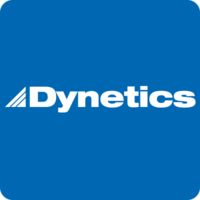
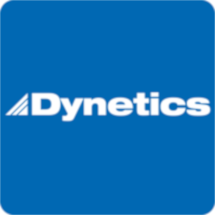
Rounded images
- Rounded company images
- Made images the same size

Changed region(s): [[0.0, 0.0, 1.0, 0.99], [0.03, 0.96, 0.99, 1.0]]

diff --git a/css/styles.min.css b/css/styles.min.css
@@ -1,1 +1,1 @@
-#backToTopBtn,.modal,.sticky{position:fixed}body{font-family:"Trebuchet MS",Helvetica,sans-serif;color:#FFF}.extra-margin-row{margin:.5vh 0 5vh}#backToTopBtn{display:none;bottom:20px;right:30px;z-index:99;font-size:18px;border:none;outline:0;background-color:#B40001;color:#FFF;cursor:pointer;padding:15px;border-radius:4px}#backToTopBtn:hover{background-color:#555}:focus{outline:0}video{width:100%!important;height:auto!important;margin:0 auto 15px;object-fit:contain;max-height:300px;max-width:400px}.custom-nav{display:flex;justify-content:center;align-items:center;overflow:hidden;background-color:#B30000;width:100%;height:60px;z-index:999}.custom-nav a{float:left;display:block;color:#f2f2f2;text-align:center;padding:8px 14px;text-decoration:none;font-size:15px}.custom-nav a:hover{background-color:#ddd;color:#191919;border-radius:50px}.active{background-color:#191919;color:#FFF;border-radius:50px}.cursor,.secret-header h3{color:#0F0}.custom-nav .icon{display:none}.secret-header h1{text-transform:none;color:#0F0;text-align:center}.cursor{animation:blink 1s infinite;cursor:pointer}@keyframes blink{to{opacity:0}}.sticky{top:0;width:100%;z-index:9999}#home{display:flex;flex-direction:row;align-items:center;justify-content:center;padding:1% 10px 17px;background:#B30000}#home .logo-container{display:flex;flex-direction:row;align-items:center}#home .header-text{margin-left:5%;height:auto;width:auto}#home h1,#home h2{text-align:left;width:40vw;color:#FFF;text-transform:none}#home h1{font-size:2.2vw}#home h2{font-size:1.8vw}#home h3{color:#FFF}.email-join-pay{display:flex;justify-content:center;align-items:center;flex-direction:column;margin-left:5%;max-width:310px;width:100%}.email-field,.fancy-button{margin-left:auto;margin-right:auto;font-size:18px;line-height:50px;text-overflow:ellipsis;font-weight:700;display:flex;white-space:nowrap;overflow:hidden;-webkit-font-smoothing:antialiased;-moz-osx-font-smoothing:grayscale;text-decoration:none}.email-field,.email-text{height:40px;width:310px;text-align:center}.email-field{background-color:#fff;cursor:text;justify-content:center;align-items:center;border-radius:50px}::placeholder{color:#BDBDBD;opacity:1}:-ms-input-placeholder{color:#BDBDBD}::-ms-input-placeholder{color:#BDBDBD}.email-text{border:none;border-radius:50px}.email-divider{height:10px}#home .header-buttons{display:flex;flex-direction:row;max-width:310px;width:100%}.fancy-button{background-color:#B30000;cursor:pointer;color:#FFF;text-align:center;justify-content:center;align-items:center;border-radius:50px;width:150px;height:40px}#payModal .braintree-placeholder,#sexyHeader,.modal{display:none}.join-btn,.pay-btn{border:none;background:#191919}.modal-dark-header,pre{border:0}.fancy-button:hover{background-color:#ddd;color:#191919}.pay-btn:hover{background-color:#058B00;color:#FFF}.fancy-button-red{background-color:#B30000;color:#FFF}.hamburger-margin{margin:5px}#sexyHeader{align-items:center}pre{line-height:normal;font-weight:400;font-style:normal;text-align:start;font-variant:normal;color:#0F0;font-size:8px}.close,.error,.label-alert-show,.secret-header strong{font-weight:700}.modal{z-index:1;padding:50px 10px;left:0;top:0;width:100%;height:100%;overflow:auto;background-color:#000;background-color:rgba(0,0,0,.4);-webkit-overflow-scrolling:touch}.modal-content{background-color:#222;color:#FFF;margin:auto;padding:20px;border:1px solid #888;max-width:600px}.high-contrast-close{float:right;font-size:1.5rem;font-weight:700;line-height:1;text-shadow:0 1px 0 #EEE;opacity:1;color:#EEE}.close{float:right;font-size:28px}.close:focus,.close:hover{color:#999;text-decoration:none;cursor:pointer}a,footer a,h4,h6{text-decoration:underline}.form-container{padding:.5rem 1.5rem 1.5rem;margin-right:0;margin-left:0;border-width:.2rem}.error{color:red}#pay-form,#payment-wrapper .braintree-heading{color:#FFF}#payModal .braintree-sheet{border-radius:0 0 4px 4px}#payForm input,#payModal .braintree-form__field{border-radius:4px}#payModal ::placeholder{color:#555}#payModal #header{background:#B30000;max-width:1000px;margin:25px auto 0;overflow:auto;border-radius:4px 4px 0 0}#payModal img{width:75px;height:75px;margin:0;text-align:left;float:left;border-radius:4px 0 0}#payModal h1{font-family:"-apple-system",BlinkMacSystemFont,"Segoe UI",Roboto,Oxygen,Ubuntu,Cantarell,"Fira Sans","Droid Sans","Helvetica Neue",sans-serif;font-size:36px;margin:0 0 0 10px;float:left;color:#FFF;line-height:75px}#pay-form{max-width:1000px;margin:0 auto;padding:24px 24px 5px;box-sizing:border-box;border-bottom:0;text-align:left}.label-alert-show{color:red;display:block;text-transform:none;font-size:14px;text-align:left}#payForm input,#payModal #drop-down{height:42px;font-size:16px;box-sizing:border-box;width:100%}.label-alert-hide{display:none}.alert{border-color:red!important;border-width:2px;padding:.375rem .75rem}#payForm input{display:block;color:#000;padding-left:7px;outline:0}#payModal #drop-down{background:#FFF}#payModal #payment-wrapper{max-width:1000px;margin:0 auto;padding-bottom:0}.cancel-submit,.crimson-submit{padding:10px;outline:0;font-size:16px;-webkit-appearance:none;color:#FFF}.crimson-submit{background:#B30000;border:0;border-radius:5px;margin:0 0 5px}.cancel-submit{cursor:pointer;background:#777;border:0;border-radius:5px;margin:0 5px 5px;float:left}.crimson-submit:hover{background:#058B00;cursor:pointer}.fullscreen,.parallax{background-repeat:no-repeat}#payModal #success-form{max-width:1000px;margin:0 auto;padding:15;text-align:left}#events-list,.dark-section .question-box,.dark-section h2,.dark-university,.events-list-item>a,footer p,h1,h3,h4{text-align:center}.braintree-dropin{min-width:100px}#dropin-container{width:100%}.shift-up{margin-top:-30px}h4{padding:3px}a{color:#FFF}a:hover{color:#b7b7b7;text-decoration:none}.divider{border-bottom:2px solid #FFF;width:100px;margin:10px auto 20px}p{font-size:1.1em;line-height:1.8em}.responsive-iframe-container{position:relative;padding-bottom:56.25%;padding-top:30px;margin-left:10px;margin-right:10px;height:0;overflow:hidden}.lhd-logo,.logo{height:auto;width:100%}.logo{max-width:250px;margin-top:5px}.lhd-logo{max-width:400px}.responsive-iframe-container iframe,.vresponsive-iframe-container embed,.vresponsive-iframe-container object{position:absolute;top:0;left:0;width:100%;height:100%}.typeform-share{width:100%}.fancy-watch-video{min-width:270px}#membersImg{max-width:500px;width:100%;height:auto}#receipt{margin-bottom:5px}#email-btn{height:30px;line-height:30px}.fullscreen{background-position:top right;min-height:calc(100vh - 2.5em)}.parallax{padding:30px 0;background-size:cover;background-attachment:fixed;background-position:center center}.roomy{min-height:50%;padding:20px 10px}#secret-mode{color:#0F0}.secret-header{background-color:#000}.secret-header .icons{margin:10vh 0 5vh}.dark-section{background:#222}.more-dark{background:#111}.darkest{background:#000}.dark-section h1,h2,h3,h4{color:#FFF}.dark-section h2{display:block;background:#B30000;margin:0;padding:15px 10px;color:#FFF;font-size:1.3em}.dark-section p{color:#FFF}.dark-section .col-md-4{margin:0;padding:0}.dark-section .left,.dark-section .middle,.dark-section .right{padding-right:20px}.dark-section .question-box{background-color:#111;width:100%;padding:0 0 5px;margin:0 0 20px;border-radius:25px}.dark-section .question-box h2{border-top-left-radius:25px;border-top-right-radius:25px}.dark-section .question-box p{padding:10px;color:#FFF;line-height:1.5em;text-align:center}.question-box a,.question-box h4{color:#FFF;padding:0 5px}.dark-section .question-box img{margin-bottom:10px}.dark-section .events-list-item{background-color:#222}.dark-university{background-image:url(../images/img_about_background_dark.jpg)}#companies{display:flex;flex-direction:column;align-items:center}#companies-container{height:250px;width:100%;display:flex;justify-content:center}#left-paddle,#right-paddle{align-self:center;height:50%;display:none;cursor:pointer}#mobile-scroll-notice{display:block}@media (min-width:728px){#left-paddle,#right-paddle{display:block}#mobile-scroll-notice{display:none}}#left-paddle>img,#right-paddle>img{height:80%}#companies-logos{height:100%;width:90%;display:flex;overflow-x:auto;-webkit-overflow-scrolling:touch}.video-responsive,.video-responsive video{height:auto;width:100%;max-width:500px;max-height:281px}#companies-logos::-webkit-scrollbar{display:none}.company-logo{margin-left:10px;margin-right:10px}#events-list,.video-responsive{margin-left:auto;margin-right:auto}.video-responsive{overflow:hidden;padding-bottom:300px;position:relative}.video-responsive video{left:0;top:0;position:absolute}footer{background:#222;padding:50px 0}footer p{color:#FFF;margin-bottom:0;font-size:16px}footer a{color:#FFF}footer a:hover{color:#B30000}footer .social{font-size:2em}.disclaimer{max-width:400px;font-size:12px;font-style:italic;line-height:12px}.js{display:none}#upcoming-events-heading{font-size:1.75em;margin:10px;background:0 0}#events-list{max-width:940px;list-style-type:none;padding-left:0}.events-list-item>a{display:block;text-decoration:none;padding:10px;background-color:#B30000;font-size:1.25em}.events-list-item.question-box{border-radius:25px}.events-list-item.question-box a{border-top-left-radius:25px}.event-details-paragraph{font-size:1.25em;padding:15px;text-align:left}@media screen and (max-width:700px){.custom-nav{flex-direction:row;align-items:center;padding:5px 1px;height:auto}.custom-nav a{display:flex;padding:8px}.custom-nav a.icon{float:right;display:none}.custom-nav.responsive{position:relative;align-items:center}.custom-nav.responsive .icon{display:none;position:absolute;top:0;right:0}.custom-nav.responsive a{display:flex;text-align:left}#home{display:flex;flex-direction:column;align-items:center;justify-content:center;padding-left:0;padding-right:0}#home .logo-container{display:flex;flex-direction:column;align-items:center}#home .header-text{display:flex;flex-direction:column;padding-top:15px;padding-bottom:15px;margin-left:0}#home .header-text h1{font-size:28px;text-align:center;max-width:300px;width:100%}#home .header-buttons{display:flex;flex-direction:row;max-width:310px;width:100%}.email-join-pay{margin-left:0}pre{font-size:5px}.button-wrapper{margin:5px auto}.parallax{background-attachment:scroll}}@media only screen and (min-width:267px){#home .header-text{width:auto}h1{font-size:10vw}.hero{height:100vh;min-height:100vh}.dark-section .left,.dark-section .middle,.dark-section .right{padding-right:0}.hidden-phone{display:none}.visible-phone{display:block}.mobile-calendar{padding-bottom:80%}.video-responsive video{margin-top:50px}}@media only screen and (min-width:500px){#home .header-text{width:auto}.hero{height:auto}h1{font-size:36px}.dark-section .left,.dark-section .middle,.dark-section .right{padding-right:20px}.visible-phone{display:none}.hidden-phone{display:block}.button-divider{display:inline}.video-responsive video{margin-top:15px}}@media only screen and (min-width:992px){#home .header-text{width:auto}.dark-section .left,.dark-section .middle,.dark-section .right{padding-right:20px}.visible-phone{display:none}.hidden-phone{display:block}}@media (max-width:1050px){#home,#home .logo-container{flex-direction:column;display:flex}#home{align-items:center;justify-content:center;background:#B30000}#home .logo-container{align-items:center;width:100%}#home .header-text{display:flex;flex-direction:column;align-items:center;margin-left:0;height:auto;width:100%;padding-top:10px;padding-bottom:10px}#home .header-text h1{text-align:center;font-size:28px;width:100%}#home .header-text h2{font-size:24px;text-align:center;width:100%}.email-join-pay{display:flex;justify-content:center;align-items:center;flex-direction:column;margin-left:0}}@media (min-width:1200px){.container{max-width:970px}.dark-section .left,.dark-section .middle,.dark-section .right{padding-right:20px}.visible-phone{display:none}.hidden-phone{display:block}}
+#backToTopBtn,.modal,.sticky{position:fixed}body{font-family:"Trebuchet MS",Helvetica,sans-serif;color:#FFF}.extra-margin-row{margin:.5vh 0 5vh}#backToTopBtn{display:none;bottom:20px;right:30px;z-index:99;font-size:18px;border:none;outline:0;background-color:#B40001;color:#FFF;cursor:pointer;padding:15px;border-radius:4px}#backToTopBtn:hover{background-color:#555}:focus{outline:0}video{width:100%!important;height:auto!important;margin:0 auto 15px;object-fit:contain;max-height:300px;max-width:400px}.custom-nav{display:flex;justify-content:center;align-items:center;overflow:hidden;background-color:#B30000;width:100%;height:60px;z-index:999}.custom-nav a{float:left;display:block;color:#f2f2f2;text-align:center;padding:8px 14px;text-decoration:none;font-size:15px}.custom-nav a:hover{background-color:#ddd;color:#191919;border-radius:50px}.active{background-color:#191919;color:#FFF;border-radius:50px}.cursor,.secret-header h3{color:#0F0}.custom-nav .icon{display:none}.secret-header h1{text-transform:none;color:#0F0;text-align:center}.cursor{animation:blink 1s infinite;cursor:pointer}@keyframes blink{to{opacity:0}}.sticky{top:0;width:100%;z-index:9999}#home{display:flex;flex-direction:row;align-items:center;justify-content:center;padding:1% 10px 17px;background:#B30000}#home .logo-container{display:flex;flex-direction:row;align-items:center}#home .header-text{margin-left:5%;height:auto;width:auto}#home h1,#home h2{text-align:left;width:40vw;color:#FFF;text-transform:none}#home h1{font-size:2.2vw}#home h2{font-size:1.8vw}#home h3{color:#FFF}.email-join-pay{display:flex;justify-content:center;align-items:center;flex-direction:column;margin-left:5%;max-width:310px;width:100%}.email-field,.fancy-button{margin-left:auto;margin-right:auto;font-size:18px;line-height:50px;text-overflow:ellipsis;font-weight:700;display:flex;white-space:nowrap;overflow:hidden;-webkit-font-smoothing:antialiased;-moz-osx-font-smoothing:grayscale;text-decoration:none}.email-field,.email-text{height:40px;width:310px;text-align:center}.email-field{background-color:#fff;cursor:text;justify-content:center;align-items:center;border-radius:50px}::placeholder{color:#BDBDBD;opacity:1}:-ms-input-placeholder{color:#BDBDBD}::-ms-input-placeholder{color:#BDBDBD}.email-text{border:none;border-radius:50px}.email-divider{height:10px}#home .header-buttons{display:flex;flex-direction:row;max-width:310px;width:100%}.fancy-button{background-color:#B30000;cursor:pointer;color:#FFF;text-align:center;justify-content:center;align-items:center;border-radius:50px;width:150px;height:40px}#payModal .braintree-placeholder,#sexyHeader,.modal{display:none}.join-btn,.pay-btn{border:none;background:#191919}.modal-dark-header,pre{border:0}.fancy-button:hover{background-color:#ddd;color:#191919}.pay-btn:hover{background-color:#058B00;color:#FFF}.fancy-button-red{background-color:#B30000;color:#FFF}.hamburger-margin{margin:5px}#sexyHeader{align-items:center}pre{line-height:normal;font-weight:400;font-style:normal;text-align:start;font-variant:normal;color:#0F0;font-size:8px}.close,.error,.label-alert-show,.secret-header strong{font-weight:700}.modal{z-index:1;padding:50px 10px;left:0;top:0;width:100%;height:100%;overflow:auto;background-color:#000;background-color:rgba(0,0,0,.4);-webkit-overflow-scrolling:touch}.modal-content{background-color:#222;color:#FFF;margin:auto;padding:20px;border:1px solid #888;max-width:600px}.high-contrast-close{float:right;font-size:1.5rem;font-weight:700;line-height:1;text-shadow:0 1px 0 #EEE;opacity:1;color:#EEE}.close{float:right;font-size:28px}.close:focus,.close:hover{color:#999;text-decoration:none;cursor:pointer}a,footer a,h4,h6{text-decoration:underline}.form-container{padding:.5rem 1.5rem 1.5rem;margin-right:0;margin-left:0;border-width:.2rem}.error{color:red}#pay-form,#payment-wrapper .braintree-heading{color:#FFF}#payModal .braintree-sheet{border-radius:0 0 4px 4px}#payForm input,#payModal .braintree-form__field{border-radius:4px}#payModal ::placeholder{color:#555}#payModal #header{background:#B30000;max-width:1000px;margin:25px auto 0;overflow:auto;border-radius:4px 4px 0 0}#payModal img{width:75px;height:75px;margin:0;text-align:left;float:left;border-radius:4px 0 0}#payModal h1{font-family:"-apple-system",BlinkMacSystemFont,"Segoe UI",Roboto,Oxygen,Ubuntu,Cantarell,"Fira Sans","Droid Sans","Helvetica Neue",sans-serif;font-size:36px;margin:0 0 0 10px;float:left;color:#FFF;line-height:75px}#pay-form{max-width:1000px;margin:0 auto;padding:24px 24px 5px;box-sizing:border-box;border-bottom:0;text-align:left}.label-alert-show{color:red;display:block;text-transform:none;font-size:14px;text-align:left}#payForm input,#payModal #drop-down{height:42px;font-size:16px;box-sizing:border-box;width:100%}.label-alert-hide{display:none}.alert{border-color:red!important;border-width:2px;padding:.375rem .75rem}#payForm input{display:block;color:#000;padding-left:7px;outline:0}#payModal #drop-down{background:#FFF}#payModal #payment-wrapper{max-width:1000px;margin:0 auto;padding-bottom:0}.cancel-submit,.crimson-submit{padding:10px;outline:0;font-size:16px;-webkit-appearance:none;color:#FFF}.crimson-submit{background:#B30000;border:0;border-radius:5px;margin:0 0 5px}.cancel-submit{cursor:pointer;background:#777;border:0;border-radius:5px;margin:0 5px 5px;float:left}.crimson-submit:hover{background:#058B00;cursor:pointer}.fullscreen,.parallax{background-repeat:no-repeat}#payModal #success-form{max-width:1000px;margin:0 auto;padding:15;text-align:left}#events-list,.dark-section .question-box,.dark-section h2,.dark-university,.events-list-item>a,footer p,h1,h3,h4{text-align:center}.braintree-dropin{min-width:100px}#dropin-container{width:100%}.shift-up{margin-top:-30px}h4{padding:3px}a{color:#FFF}a:hover{color:#b7b7b7;text-decoration:none}.divider{border-bottom:2px solid #FFF;width:100px;margin:10px auto 20px}p{font-size:1.1em;line-height:1.8em}.responsive-iframe-container{position:relative;padding-bottom:56.25%;padding-top:30px;margin-left:10px;margin-right:10px;height:0;overflow:hidden}.lhd-logo,.logo{height:auto;width:100%}.logo{max-width:250px;margin-top:5px}.lhd-logo{max-width:400px}.responsive-iframe-container iframe,.vresponsive-iframe-container embed,.vresponsive-iframe-container object{position:absolute;top:0;left:0;width:100%;height:100%}.typeform-share{width:100%}.fancy-watch-video{min-width:270px}#membersImg{max-width:500px;width:100%;height:auto}#receipt{margin-bottom:5px}#email-btn{height:30px;line-height:30px}.fullscreen{background-position:top right;min-height:calc(100vh - 2.5em)}.parallax{padding:30px 0;background-size:cover;background-attachment:fixed;background-position:center center}.roomy{min-height:50%;padding:20px 10px}#secret-mode{color:#0F0}.secret-header{background-color:#000}.secret-header .icons{margin:10vh 0 5vh}.dark-section{background:#222}.more-dark{background:#111}.darkest{background:#000}.dark-section h1,h2,h3,h4{color:#FFF}.dark-section h2{display:block;background:#B30000;margin:0;padding:15px 10px;color:#FFF;font-size:1.3em}.dark-section p{color:#FFF}.dark-section .col-md-4{margin:0;padding:0}.dark-section .left,.dark-section .middle,.dark-section .right{padding-right:20px}.dark-section .question-box{background-color:#111;width:100%;padding:0 0 5px;margin:0 0 20px;border-radius:25px}.dark-section .question-box h2{border-top-left-radius:25px;border-top-right-radius:25px}.dark-section .question-box p{padding:10px;color:#FFF;line-height:1.5em;text-align:center}.question-box a,.question-box h4{color:#FFF;padding:0 5px}.dark-section .question-box img{margin-bottom:10px}.dark-section .events-list-item{background-color:#222}.dark-university{background-image:url(../images/img_about_background_dark.jpg)}#companies{display:flex;flex-direction:column;align-items:center}#companies-container{height:250px;width:100%;display:flex;justify-content:center}#left-paddle,#right-paddle{align-self:center;height:50%;display:none;cursor:pointer}#mobile-scroll-notice{display:block}@media (min-width:728px){#left-paddle,#right-paddle{display:block}#mobile-scroll-notice{display:none}}#left-paddle>img,#right-paddle>img{height:80%}#companies-logos{height:100%;width:90%;display:flex;overflow-x:auto;-webkit-overflow-scrolling:touch}.video-responsive,.video-responsive video{height:auto;width:100%;max-width:500px;max-height:281px}#companies-logos::-webkit-scrollbar{display:none}.company-logo{margin-left:10px;margin-right:10px}#events-list,.video-responsive{margin-left:auto;margin-right:auto}.company-logo img{border-radius:50%}.video-responsive{overflow:hidden;padding-bottom:300px;position:relative}.video-responsive video{left:0;top:0;position:absolute}footer{background:#222;padding:50px 0}footer p{color:#FFF;margin-bottom:0;font-size:16px}footer a{color:#FFF}footer a:hover{color:#B30000}footer .social{font-size:2em}.disclaimer{max-width:400px;font-size:12px;font-style:italic;line-height:12px}.js{display:none}#upcoming-events-heading{font-size:1.75em;margin:10px;background:0 0}#events-list{max-width:940px;list-style-type:none;padding-left:0}.events-list-item>a{display:block;text-decoration:none;padding:10px;background-color:#B30000;font-size:1.25em}.events-list-item.question-box{border-radius:25px}.events-list-item.question-box a{border-top-left-radius:25px}.event-details-paragraph{font-size:1.25em;padding:15px;text-align:left}@media screen and (max-width:700px){.custom-nav{flex-direction:row;align-items:center;padding:5px 1px;height:auto}.custom-nav a{display:flex;padding:8px}.custom-nav a.icon{float:right;display:none}.custom-nav.responsive{position:relative;align-items:center}.custom-nav.responsive .icon{display:none;position:absolute;top:0;right:0}.custom-nav.responsive a{display:flex;text-align:left}#home{display:flex;flex-direction:column;align-items:center;justify-content:center;padding-left:0;padding-right:0}#home .logo-container{display:flex;flex-direction:column;align-items:center}#home .header-text{display:flex;flex-direction:column;padding-top:15px;padding-bottom:15px;margin-left:0}#home .header-text h1{font-size:28px;text-align:center;max-width:300px;width:100%}#home .header-buttons{display:flex;flex-direction:row;max-width:310px;width:100%}.email-join-pay{margin-left:0}pre{font-size:5px}.button-wrapper{margin:5px auto}.parallax{background-attachment:scroll}}@media only screen and (min-width:267px){#home .header-text{width:auto}h1{font-size:10vw}.hero{height:100vh;min-height:100vh}.dark-section .left,.dark-section .middle,.dark-section .right{padding-right:0}.hidden-phone{display:none}.visible-phone{display:block}.mobile-calendar{padding-bottom:80%}.video-responsive video{margin-top:50px}}@media only screen and (min-width:500px){#home .header-text{width:auto}.hero{height:auto}h1{font-size:36px}.dark-section .left,.dark-section .middle,.dark-section .right{padding-right:20px}.visible-phone{display:none}.hidden-phone{display:block}.button-divider{display:inline}.video-responsive video{margin-top:15px}}@media only screen and (min-width:992px){#home .header-text{width:auto}.dark-section .left,.dark-section .middle,.dark-section .right{padding-right:20px}.visible-phone{display:none}.hidden-phone{display:block}}@media (max-width:1050px){#home,#home .logo-container{flex-direction:column;display:flex}#home{align-items:center;justify-content:center;background:#B30000}#home .logo-container{align-items:center;width:100%}#home .header-text{display:flex;flex-direction:column;align-items:center;margin-left:0;height:auto;width:100%;padding-top:10px;padding-bottom:10px}#home .header-text h1{text-align:center;font-size:28px;width:100%}#home .header-text h2{font-size:24px;text-align:center;width:100%}.email-join-pay{display:flex;justify-content:center;align-items:center;flex-direction:column;margin-left:0}}@media (min-width:1200px){.container{max-width:970px}.dark-section .left,.dark-section .middle,.dark-section .right{padding-right:20px}.visible-phone{display:none}.hidden-phone{display:block}}

diff --git a/index.html b/index.html
@@ -31,7 +31,7 @@
         <title>UA ACM</title>
         <!-- Stylesheets -->
         <link rel="stylesheet" type="text/css" href="css/bootstrap.min.css" />
-        <link rel="stylesheet" type="text/css" href="css/styles.css" />
+        <link rel="stylesheet" type="text/css" href="css/styles.min.css" />
         <!-- Inline Fontello font style for minimizing HTTP requests -->
         <style>
             @font-face {
@@ -421,7 +421,7 @@
             </div>
             <div id="mobile-scroll-notice" class="row justify-content-center">
                 <p>Scroll to view more ></p>
-            </div> -->
+            </div>
         </section>
         <!-- Footer -->
         <footer class="dark-section darkest roomy">

diff --git a/css/styles.css b/css/styles.css
@@ -799,6 +799,10 @@ h6 {
   margin-right: 10px;
 }
 
+.company-logo img {
+  border-radius: 50%;
+}
+
 .video-responsive {
   overflow: hidden;
   padding-bottom: 300px;
